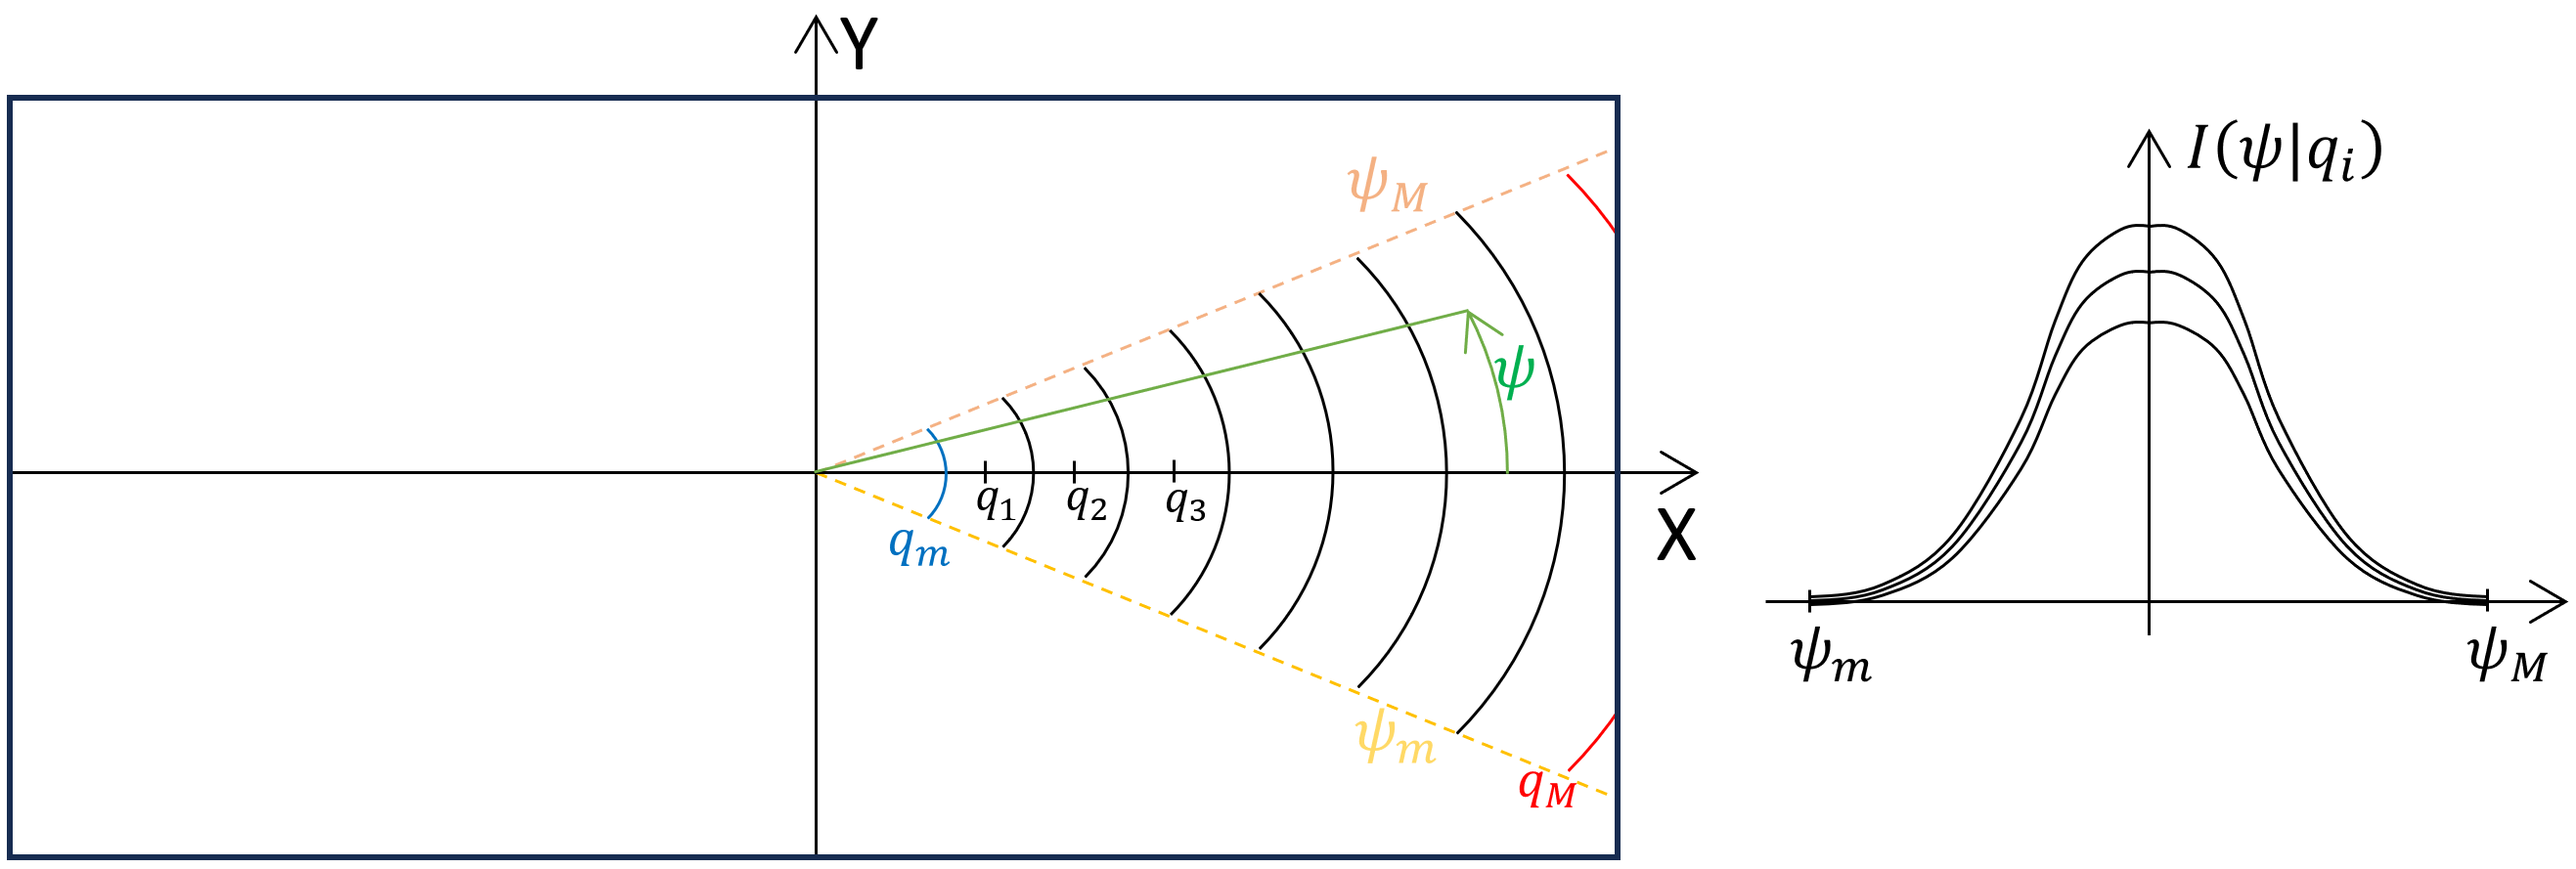
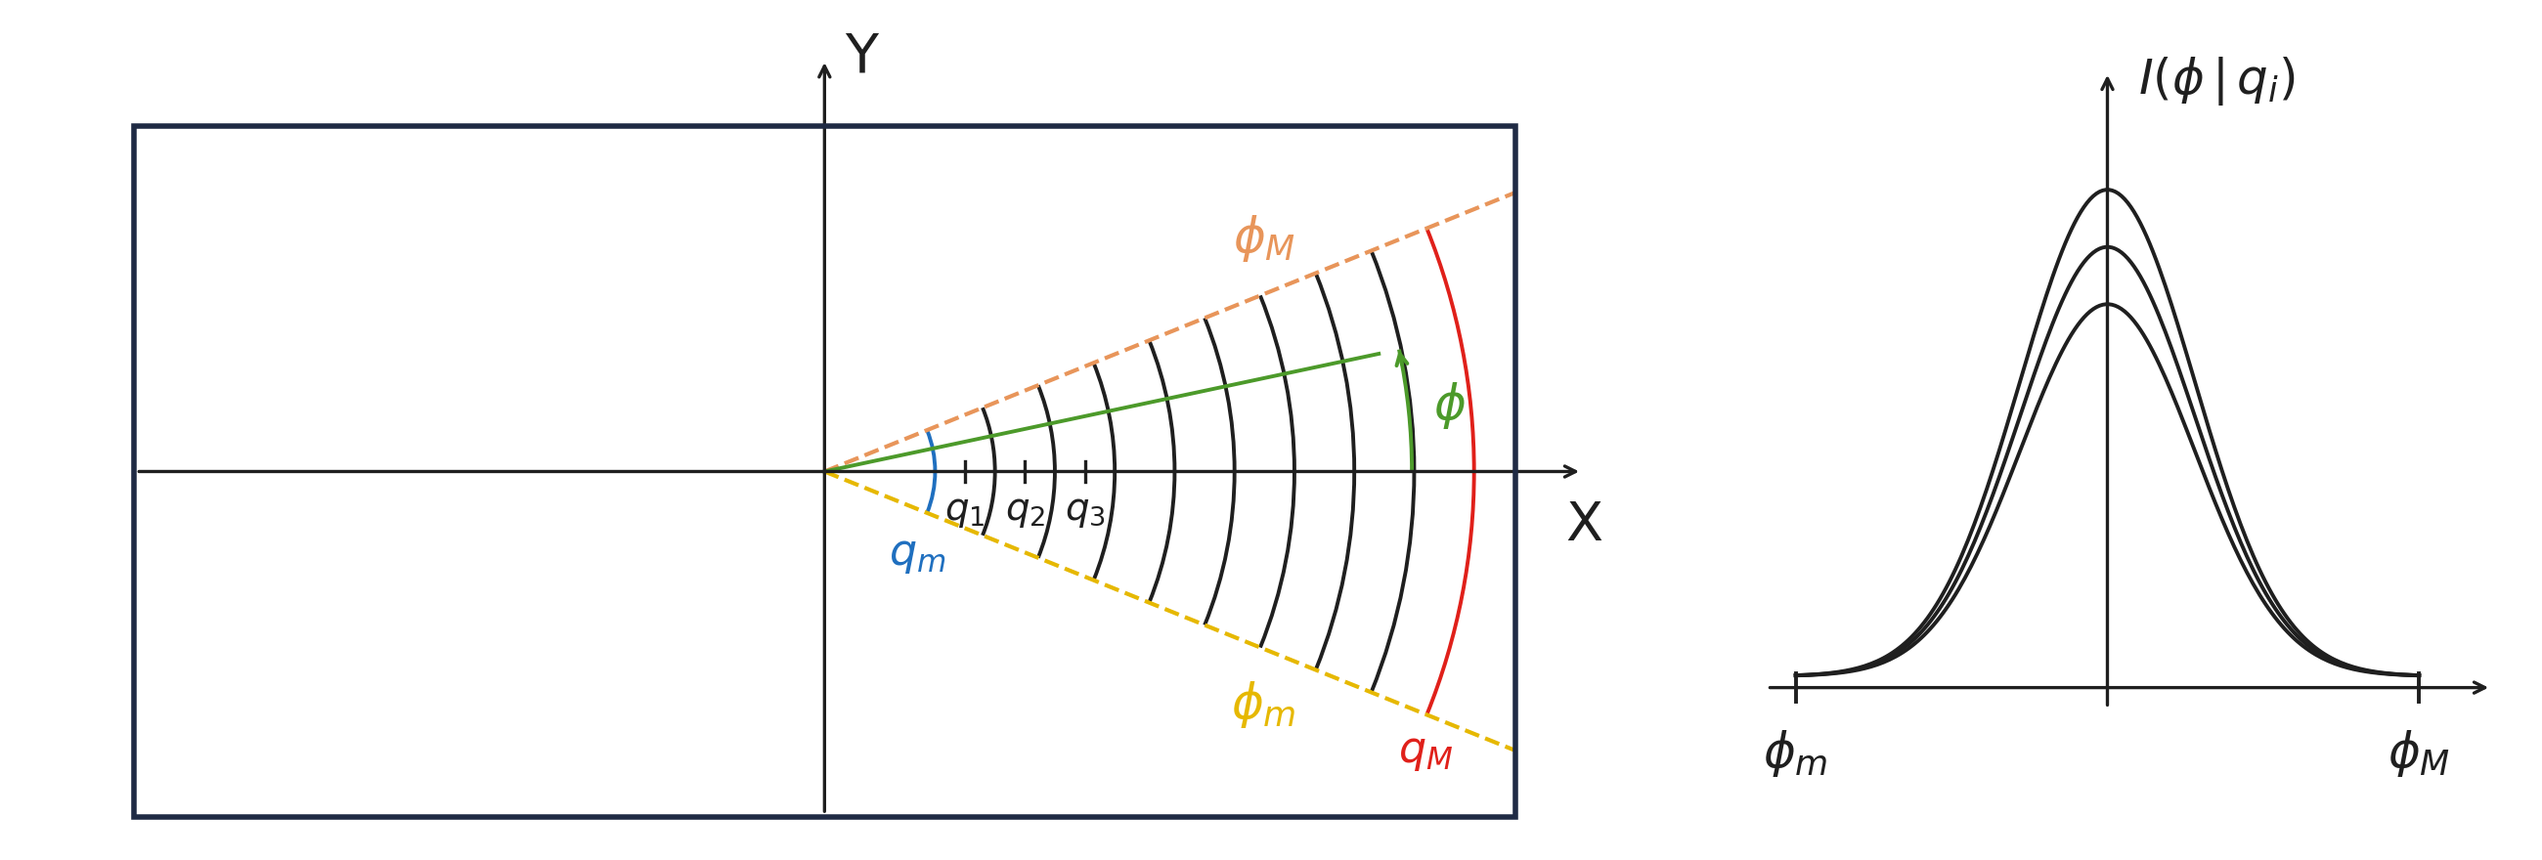
Redraw the wedge binning schematics with the azimuthal angle phi
The symmetric wedge in the third schematic is now the wedge rotated by 180 degrees.

diff --git a/docs/user/media/scripts/wedge_schematics.py b/docs/user/media/scripts/wedge_schematics.py
@@ -1,0 +1,161 @@
+"""Draw wedge_binning_1.png, _2, _3, _5 and _6 for docs/user/binning.rst, section "Wedge Binning".
+
+Each figure shows the detector plane on the left, with the wedges in azimuthal angle phi and the Q-bin boundaries
+between q_m and q_M, and a fictitious intensity profile on the right. The symmetric wedge is the wedge rotated by
+180 degrees, consistent with I(q, phi + pi) = I(q, phi).
+
+Usage: python wedge_schematics.py <output directory>
+"""
+
+import argparse
+import os
+
+import matplotlib
+
+matplotlib.use("Agg")
+import matplotlib.pyplot as plt  # noqa: E402
+import numpy as np  # noqa: E402
+from matplotlib.patches import Arc, Circle, Polygon, Rectangle  # noqa: E402
+
+INK, FRAME, SHADE = "#1f1f1f", "#1f2a44", "#fdf0c4"
+PHI_MAX_COLOR, PHI_MIN_COLOR, QMIN_COLOR, QMAX_COLOR = "#e8955a", "#e6b800", "#1f6fbf", "#e0201a"
+PHI_MIN, PHI_MAX = -22.0, 22.0  # deg, the wedge along X
+BOUNDARIES = np.linspace(0.16, 0.94, 10)  # Q-bin boundaries in units of the detector half-width, q_m to q_M
+Q_LABELS = [f"{q:.2f}" for q in np.arange(0.03, 0.125, 0.01)]  # 1/A, the boundaries of figures 5 and 6
+ARROW = dict(arrowstyle="->", color=INK, lw=1.2)
+
+
+def _polar(radius: float, angle: float) -> tuple[float, float]:
+    """Cartesian coordinates of a point given its radius and its azimuthal angle (deg)."""
+    return radius * np.cos(np.radians(angle)), radius * np.sin(np.radians(angle))
+
+
+def detector(ax: plt.Axes) -> Rectangle:
+    """Draw the detector frame and the X and Y axes, and return the frame to clip the drawings inside it."""
+    frame = Rectangle((-1.0, -0.5), 2.0, 1.0, fill=False, ec=FRAME, lw=2.0, zorder=5)
+    ax.add_patch(frame)
+    ax.annotate("", xy=(1.1, 0.0), xytext=(-1.0, 0.0), arrowprops=ARROW)
+    ax.annotate("", xy=(0.0, 0.6), xytext=(0.0, -0.5), arrowprops=ARROW)
+    ax.text(1.1, -0.04, "X", fontsize=20, va="top", ha="center", color=INK)
+    ax.text(0.03, 0.6, "Y", fontsize=20, va="center", color=INK)
+    ax.set_xlim(-1.02, 1.16)
+    ax.set_ylim(-0.52, 0.64)
+    ax.set_aspect("equal")
+    ax.axis("off")
+    return frame
+
+
+def wedge_edges(ax: plt.Axes, rotation: float = 0.0) -> None:
+    """Draw the dashed edges of the wedge rotated by ``rotation`` (deg) and the Q-bin boundaries inside it."""
+    for angle, color in [(PHI_MIN + rotation, PHI_MIN_COLOR), (PHI_MAX + rotation, PHI_MAX_COLOR)]:
+        ax.plot(*zip((0.0, 0.0), _polar(1.08, angle)), color=color, ls="--", lw=1.5)
+    for index, radius in enumerate(BOUNDARIES):
+        color = QMIN_COLOR if index == 0 else QMAX_COLOR if index == len(BOUNDARIES) - 1 else INK
+        ax.add_patch(Arc((0, 0), 2 * radius, 2 * radius, theta1=PHI_MIN + rotation, theta2=PHI_MAX + rotation,
+                         color=color, lw=1.4))  # fmt: skip
+    ax.text(*_polar(BOUNDARIES[0] + 0.02, -42 + rotation), "$q_m$", color=QMIN_COLOR, fontsize=16, ha="center",
+            va="center")  # fmt: skip
+    ax.text(*_polar(BOUNDARIES[-1] + 0.02, -25 + rotation), "$q_M$", color=QMAX_COLOR, fontsize=16, ha="center",
+            va="center")  # fmt: skip
+    sign = np.cos(np.radians(rotation))
+    for index in range(3):  # q_i at the bin centers
+        center = sign * (BOUNDARIES[index] + BOUNDARIES[index + 1]) / 2
+        ax.plot([center, center], [-0.015, 0.015], color=INK, lw=1.2)
+        ax.text(center, -0.03, f"$q_{index + 1}$", fontsize=14, ha="center", va="top", color=INK)
+
+
+def phi_labels(ax: plt.Axes, rotation: float = 0.0, suffix: str = "", radius: float = 0.72) -> None:
+    """Label the edges of the wedge rotated by ``rotation`` (deg)."""
+    side = 1.0 if np.cos(np.radians(rotation)) > 0 else -1.0  # the labels sit outside the wedge
+    for angle, name, color, shift in [(PHI_MAX, "M", PHI_MAX_COLOR, 6), (PHI_MIN, "m", PHI_MIN_COLOR, -6)]:
+        ax.text(*_polar(radius, angle + rotation + side * shift), rf"$\phi_{name}${suffix}", color=color, fontsize=18,
+                ha="center", va="center", bbox=dict(fc="white", ec="none", pad=1))  # fmt: skip
+
+
+def shaded(ax: plt.Axes, frame: Rectangle, rotations: list[float], q_angle: float) -> None:
+    """Draw the dotted Q-ring boundaries of figures 5 and 6 and the shaded wedges, clipped to the frame."""
+    for rotation in rotations:
+        corners = [(0.0, 0.0), _polar(2.0, PHI_MIN + rotation), _polar(2.0, PHI_MAX + rotation)]
+        ax.add_patch(Polygon(corners, color=SHADE, lw=0, zorder=0)).set_clip_path(frame)
+    for index, radius in enumerate(BOUNDARIES):
+        color = QMIN_COLOR if index == 0 else QMAX_COLOR if index == len(BOUNDARIES) - 1 else INK
+        ax.add_patch(Circle((0, 0), radius, fill=False, ec=color, ls=":", lw=1.2)).set_clip_path(frame)
+        if index < 4:
+            ax.text(*_polar(radius, q_angle), Q_LABELS[index], color=color, fontsize=13, va="center",
+                    ha="left" if np.cos(np.radians(q_angle)) > 0 else "right",
+                    bbox=dict(fc="white", ec="none", pad=0.5, alpha=0.8))  # fmt: skip
+    corner = (0.92, -0.44) if np.cos(np.radians(q_angle)) > 0 else (-0.92, -0.44)
+    ax.text(*corner, Q_LABELS[-1], color=QMAX_COLOR, fontsize=13, ha="center", va="center")
+
+
+def profile_panel(ax: plt.Axes, kind: str) -> None:
+    """Draw a fictitious I(phi | q_i) profile for each q_i (``kind="phi"``) or a fictitious I(q) (``kind="q"``)."""
+    ax.annotate("", xy=(1.12, 0.0), xytext=(-0.05, 0.0), arrowprops=ARROW)
+    ax.set_xlim(-0.08, 1.15)
+    ax.set_ylim(-0.25, 1.15)
+    ax.axis("off")
+    if kind == "phi":
+        ax.annotate("", xy=(0.5, 1.08), xytext=(0.5, -0.04), arrowprops=ARROW)
+        phi = np.linspace(0.0, 1.0, 200)
+        for height in (0.65, 0.75, 0.85):
+            ax.plot(phi, 0.02 + height * np.exp(-0.5 * ((phi - 0.5) / 0.14) ** 2), color=INK, lw=1.4)
+        ax.text(0.55, 1.06, r"$I(\phi\,|\,q_i)$", fontsize=18, va="center", color=INK)
+        for position, name in [(0.0, "m"), (1.0, "M")]:
+            ax.plot([position, position], [-0.025, 0.025], color=INK, lw=1.4)
+            ax.text(position, -0.07, rf"$\phi_{name}$", fontsize=18, ha="center", va="top", color=INK)
+        return
+    ax.annotate("", xy=(0.0, 1.08), xytext=(0.0, -0.04), arrowprops=ARROW)
+    ax.text(0.08, 1.06, "$I(q)$", fontsize=18, va="center", color=INK)
+    edges = np.linspace(0.1, 1.0, 10)
+    q = np.linspace(edges[0] + 0.05, edges[-1] - 0.03, 200)
+    intensity = 0.08 + 0.82 / (1.0 + np.exp((q - 0.72) / 0.06))  # fictitious I(q) in the wedge
+    ax.plot(q, intensity, color="#b8860b", lw=2.2)
+    for index in range(3):
+        center = edges[0] + 0.05 + 0.13 * index
+        ax.plot([center, center], [0.0, np.interp(center, q, intensity)], color=INK, ls=":", lw=1)
+        ax.text(center, -0.04, f"$q_{index + 1}$", fontsize=15, ha="center", va="top", color=INK)
+    for position, name, color in [(edges[0], "m", QMIN_COLOR), (edges[-1], "M", QMAX_COLOR)]:
+        ax.plot([position, position], [-0.04, 0.04], color=color, lw=3)
+        ax.text(position, -0.11, f"$q_{name}$", fontsize=15, ha="center", va="top", color=color)
+
+
+def draw(number: int, output: str) -> None:
+    """Draw figure ``number`` and save it to ``output``."""
+    fig, (left, right) = plt.subplots(1, 2, figsize=(13.0, 4.4), dpi=200, gridspec_kw=dict(width_ratios=[2.2, 1]))
+    frame = detector(left)
+    if number in (1, 2, 3):
+        wedge_edges(left)
+        phi_labels(left)
+    if number == 1:  # the azimuthal angle phi of a point in the wedge
+        left.plot(*zip((0.0, 0.0), _polar(0.82, 12.0)), color="#4c9a2a", lw=1.4)
+        left.add_patch(Arc((0, 0), 1.7, 1.7, theta1=0, theta2=12, color="#4c9a2a", lw=1.4))
+        left.annotate("", xy=_polar(0.85, 12.5), xytext=_polar(0.85, 10.0),
+                      arrowprops=dict(arrowstyle="->", color="#4c9a2a", lw=1.4))  # fmt: skip
+        left.text(*_polar(0.91, 6.0), r"$\phi$", color="#4c9a2a", fontsize=18, ha="center", va="center")
+    if number == 3:  # the symmetric wedge, rotated by 180 degrees
+        wedge_edges(left, rotation=180.0)
+        phi_labels(left, rotation=180.0, suffix=" + 180°", radius=0.68)
+    if number == 5:
+        shaded(left, frame, [0.0, 180.0], q_angle=-55.0)
+        for angle, name in [(PHI_MAX + 4, "M"), (PHI_MIN - 4, "m")]:
+            left.text(*_polar(0.6, angle), rf"$\phi_{name}$?", fontsize=18, ha="center", va="center", color=INK)
+    if number == 6:
+        shaded(left, frame, [180.0], q_angle=-120.0)
+        for angle, name in [(180.0 + PHI_MIN - 6, "m"), (180.0 + PHI_MAX + 6, "M")]:
+            left.text(*_polar(0.6, angle), rf"$\phi_{name}$?", fontsize=18, ha="center", va="center", color=INK)
+        left.add_patch(Rectangle((0.0, -0.5), 1.0, 1.0, fc="#d9d9d9", ec="#9a9a9a", hatch="///", alpha=0.9,
+                                 lw=0, zorder=3))  # fmt: skip
+        left.text(0.5, 0.0, "masked region", fontsize=22, style="italic", ha="center", va="center", color=INK,
+                  zorder=4, bbox=dict(fc="#d9d9d9", ec="none"))  # fmt: skip
+    profile_panel(right, "phi" if number == 1 else "q")
+    fig.tight_layout()
+    fig.savefig(output)
+    plt.close(fig)
+
+
+if __name__ == "__main__":
+    parser = argparse.ArgumentParser(description=__doc__.splitlines()[0])
+    parser.add_argument("output_dir", help="directory where to write the PNG files")
+    directory = parser.parse_args().output_dir
+    for figure_number in (1, 2, 3, 5, 6):
+        draw(figure_number, os.path.join(directory, f"wedge_binning_{figure_number}.png"))
